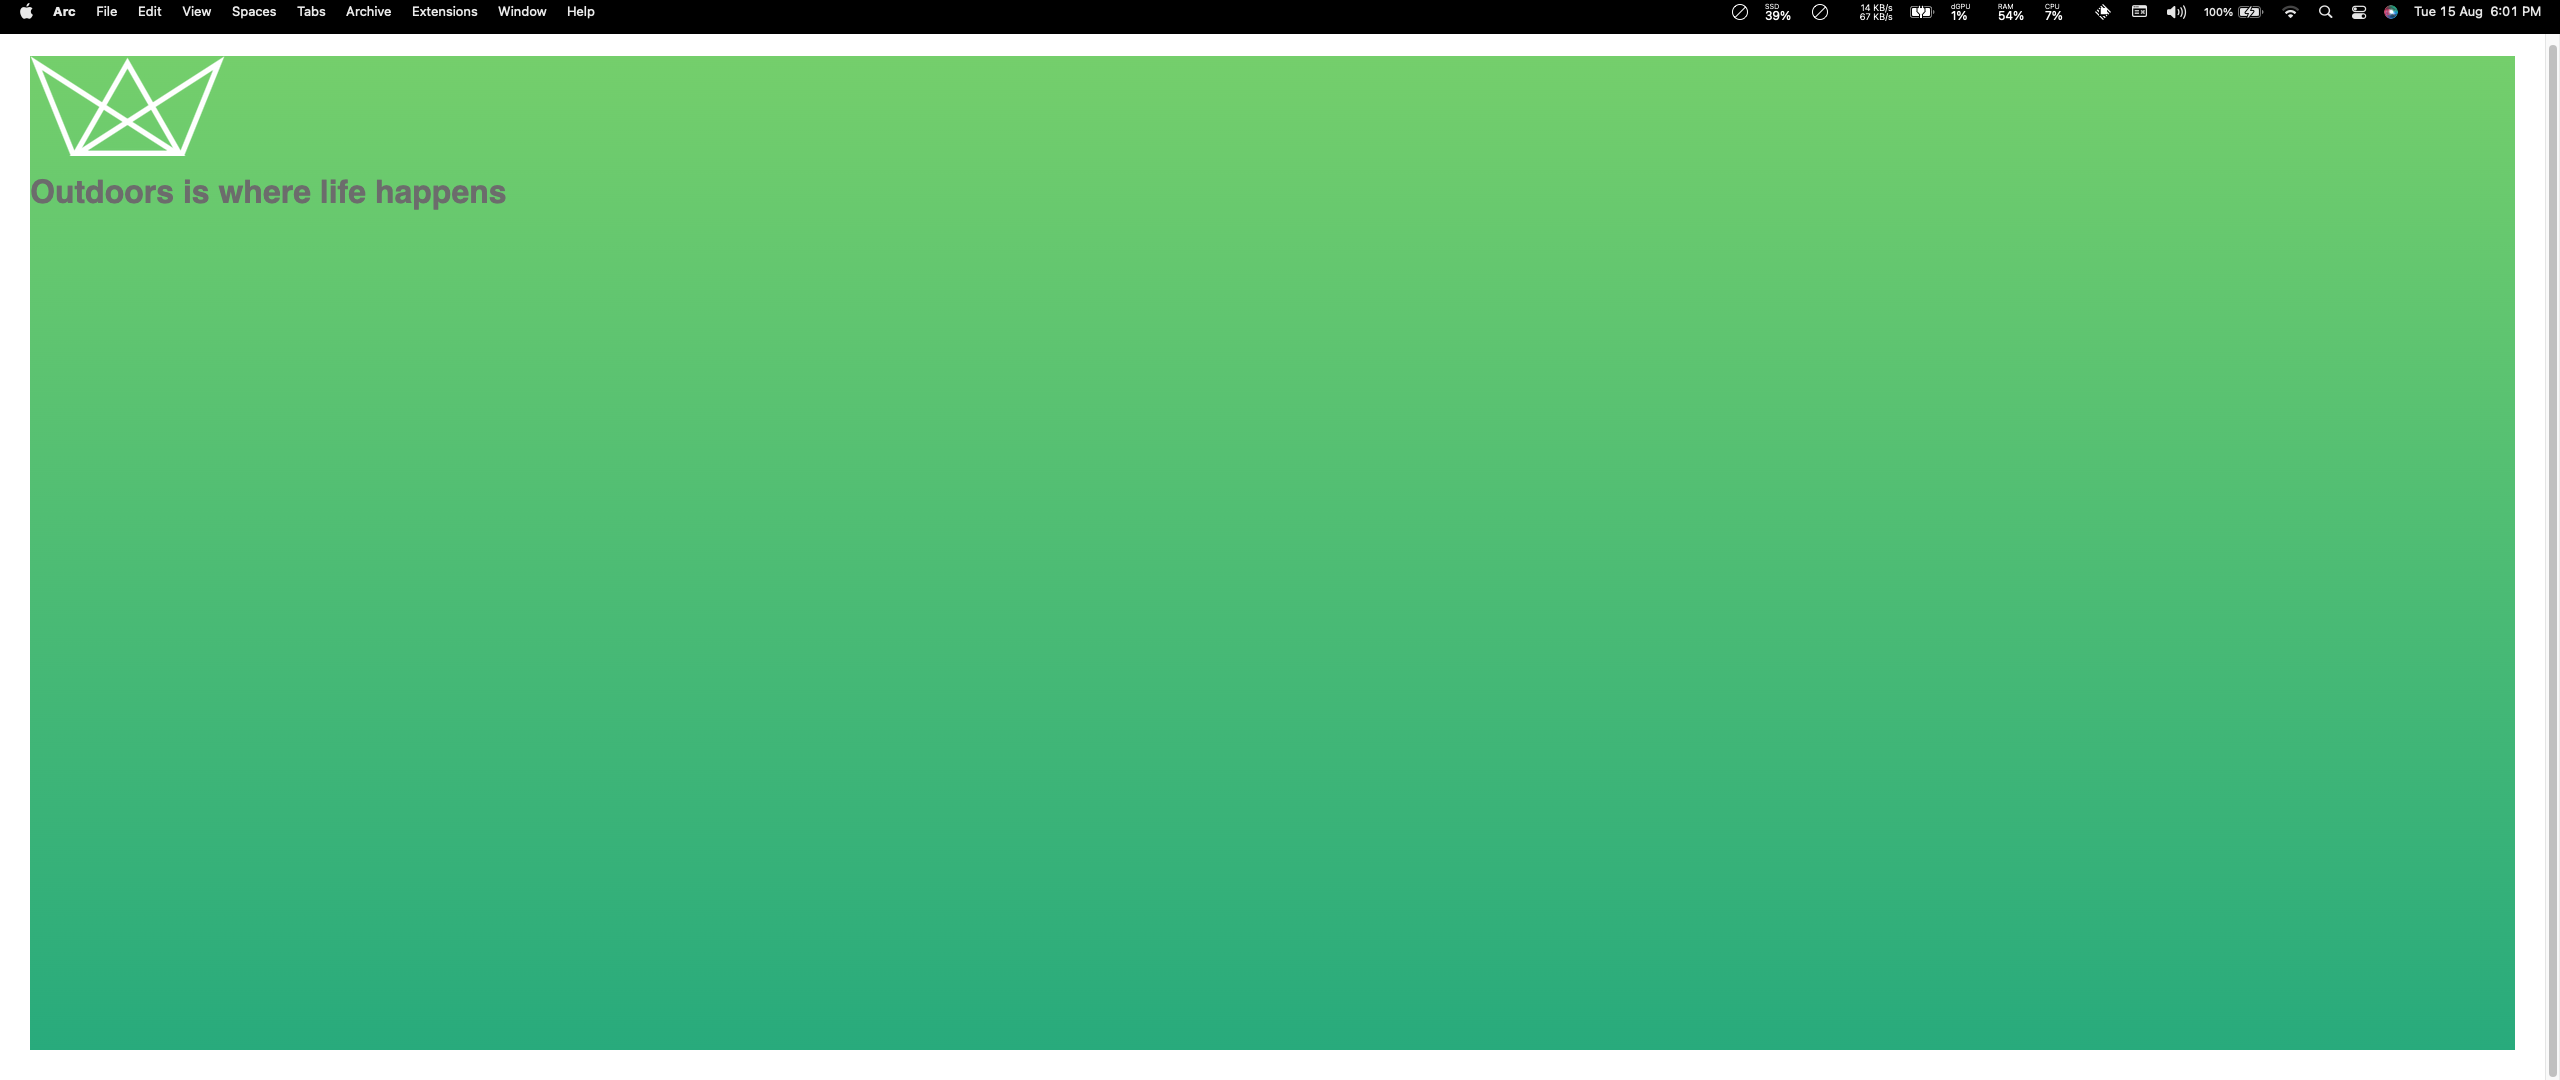
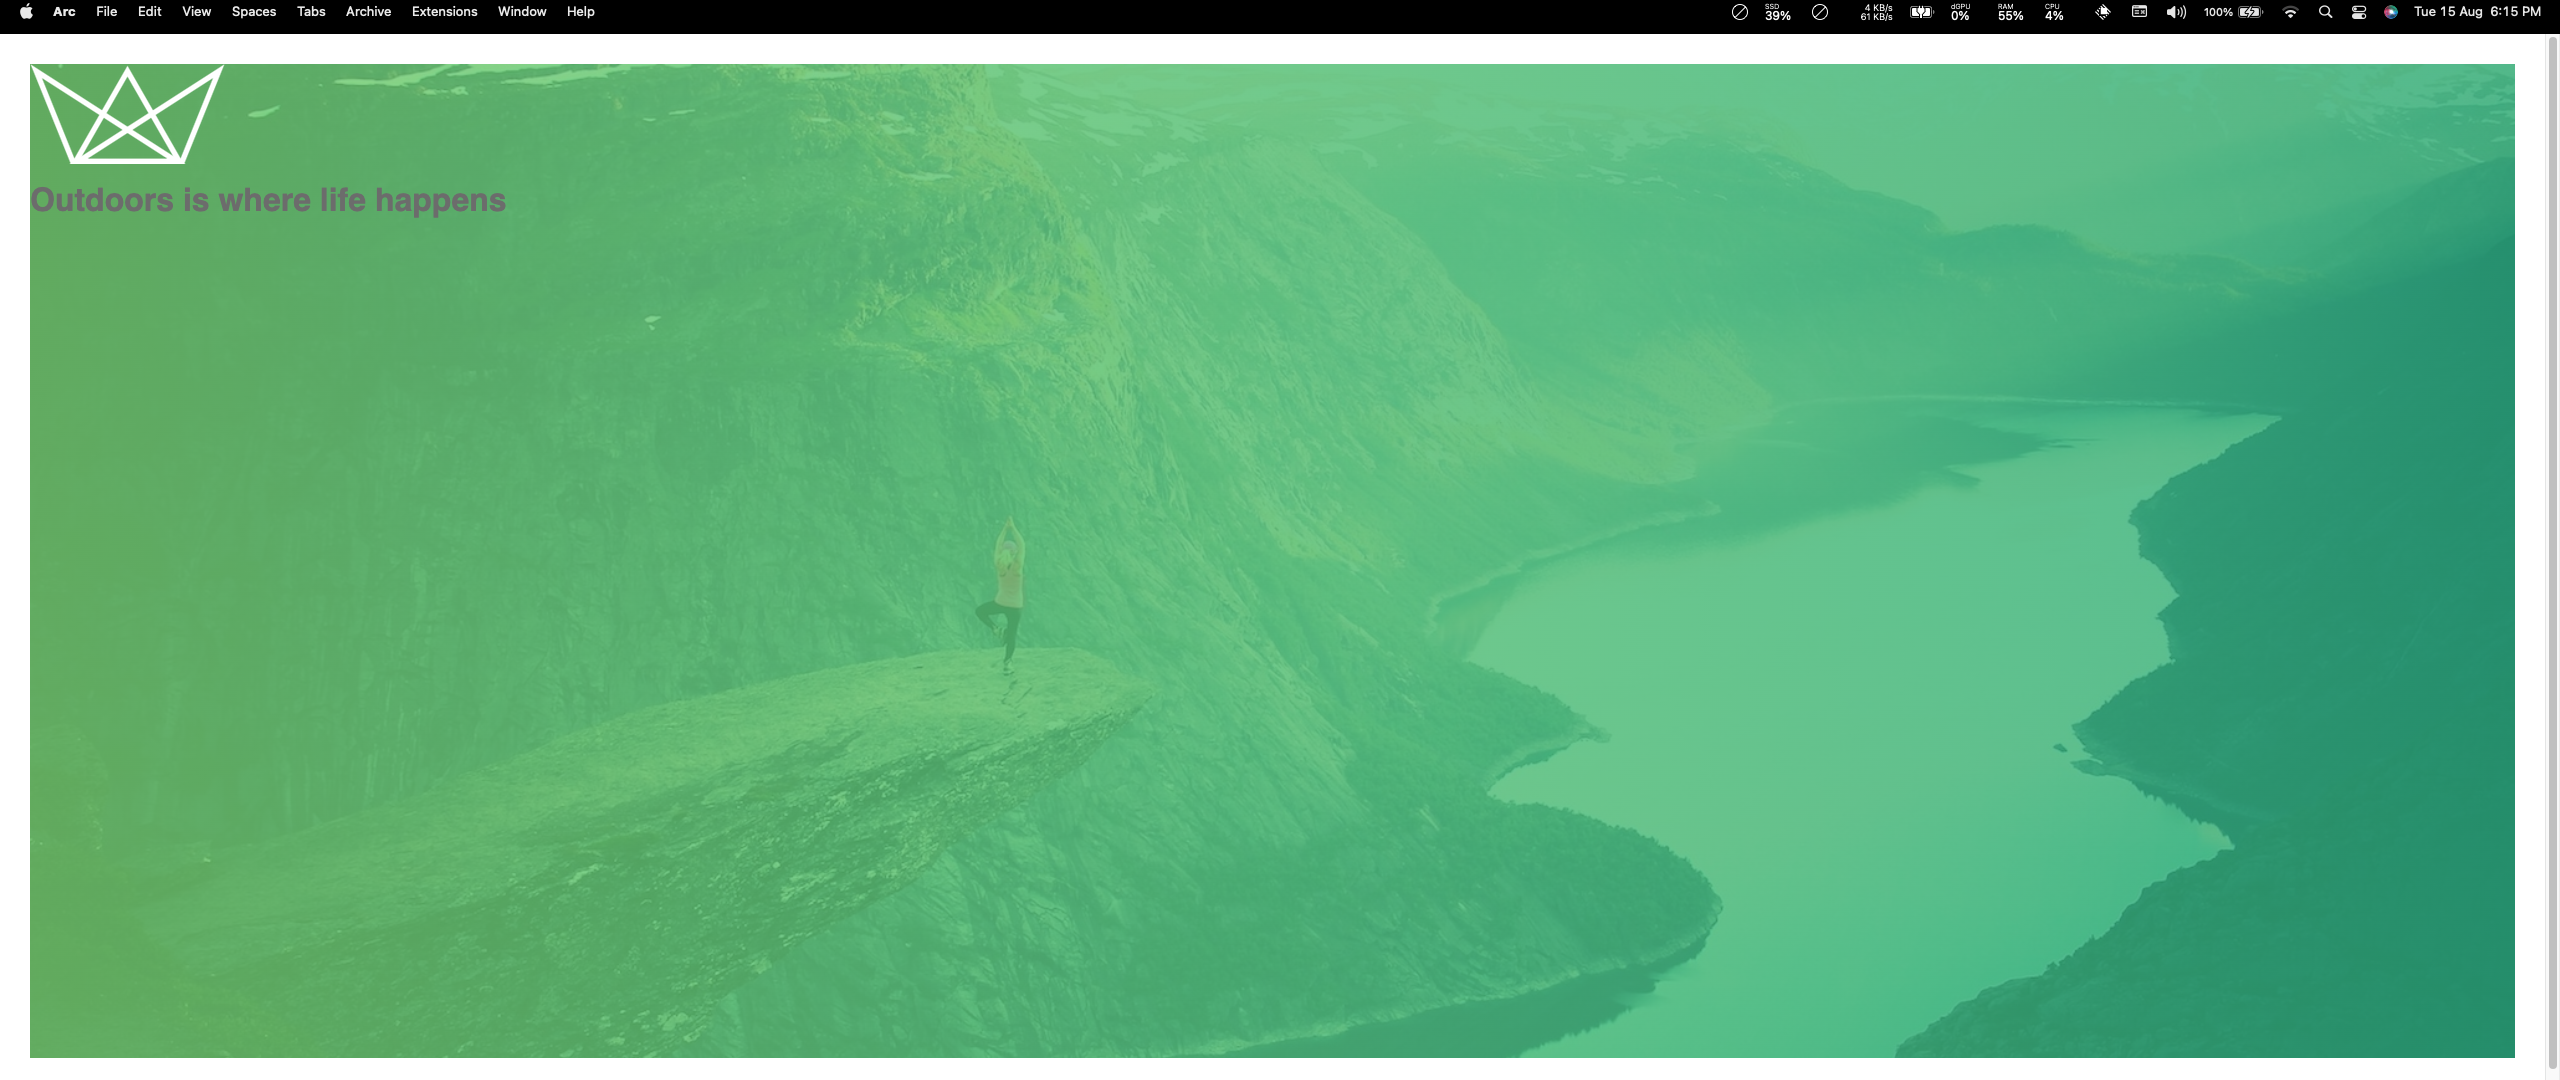
v-0.7.2 Modify `linear-gradient` of `background-image` property >> ( added `to right`, modify colors to rgba & added opacity value - `0.8` so that background image can be shown from below the gradient )

diff --git a/style.css b/style.css
@@ -15,7 +15,7 @@ body {
 
 .header {
 	height: 95vh;
-	background-image: linear-gradient(#7ed56f, #28b485), url(Assets/Images/Hero.jpg);
+	background-image: linear-gradient(to right, rgba(126, 213, 111, 0.8), rgba(40, 180, 131, 0.8)), url(Assets/Images/Hero.jpg);
 	background-size: cover;
 	background-position: top;
 }
